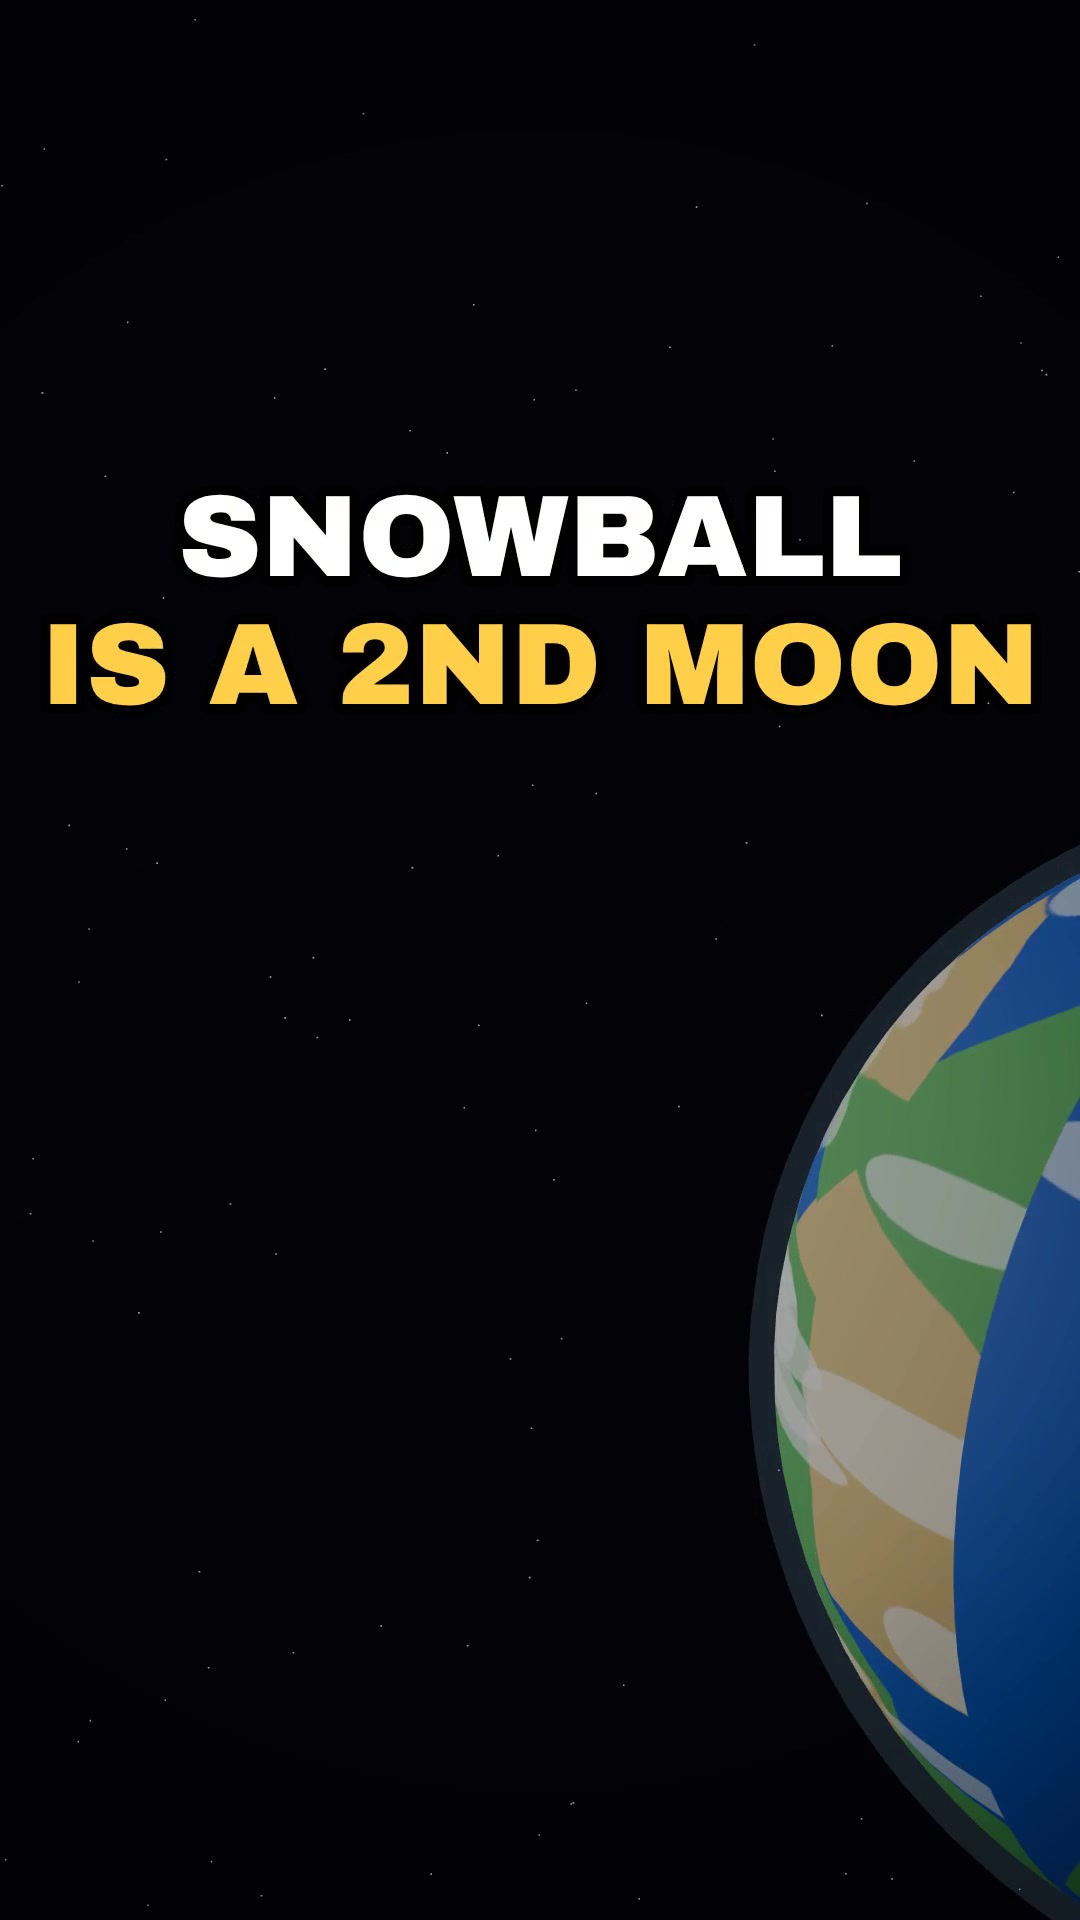
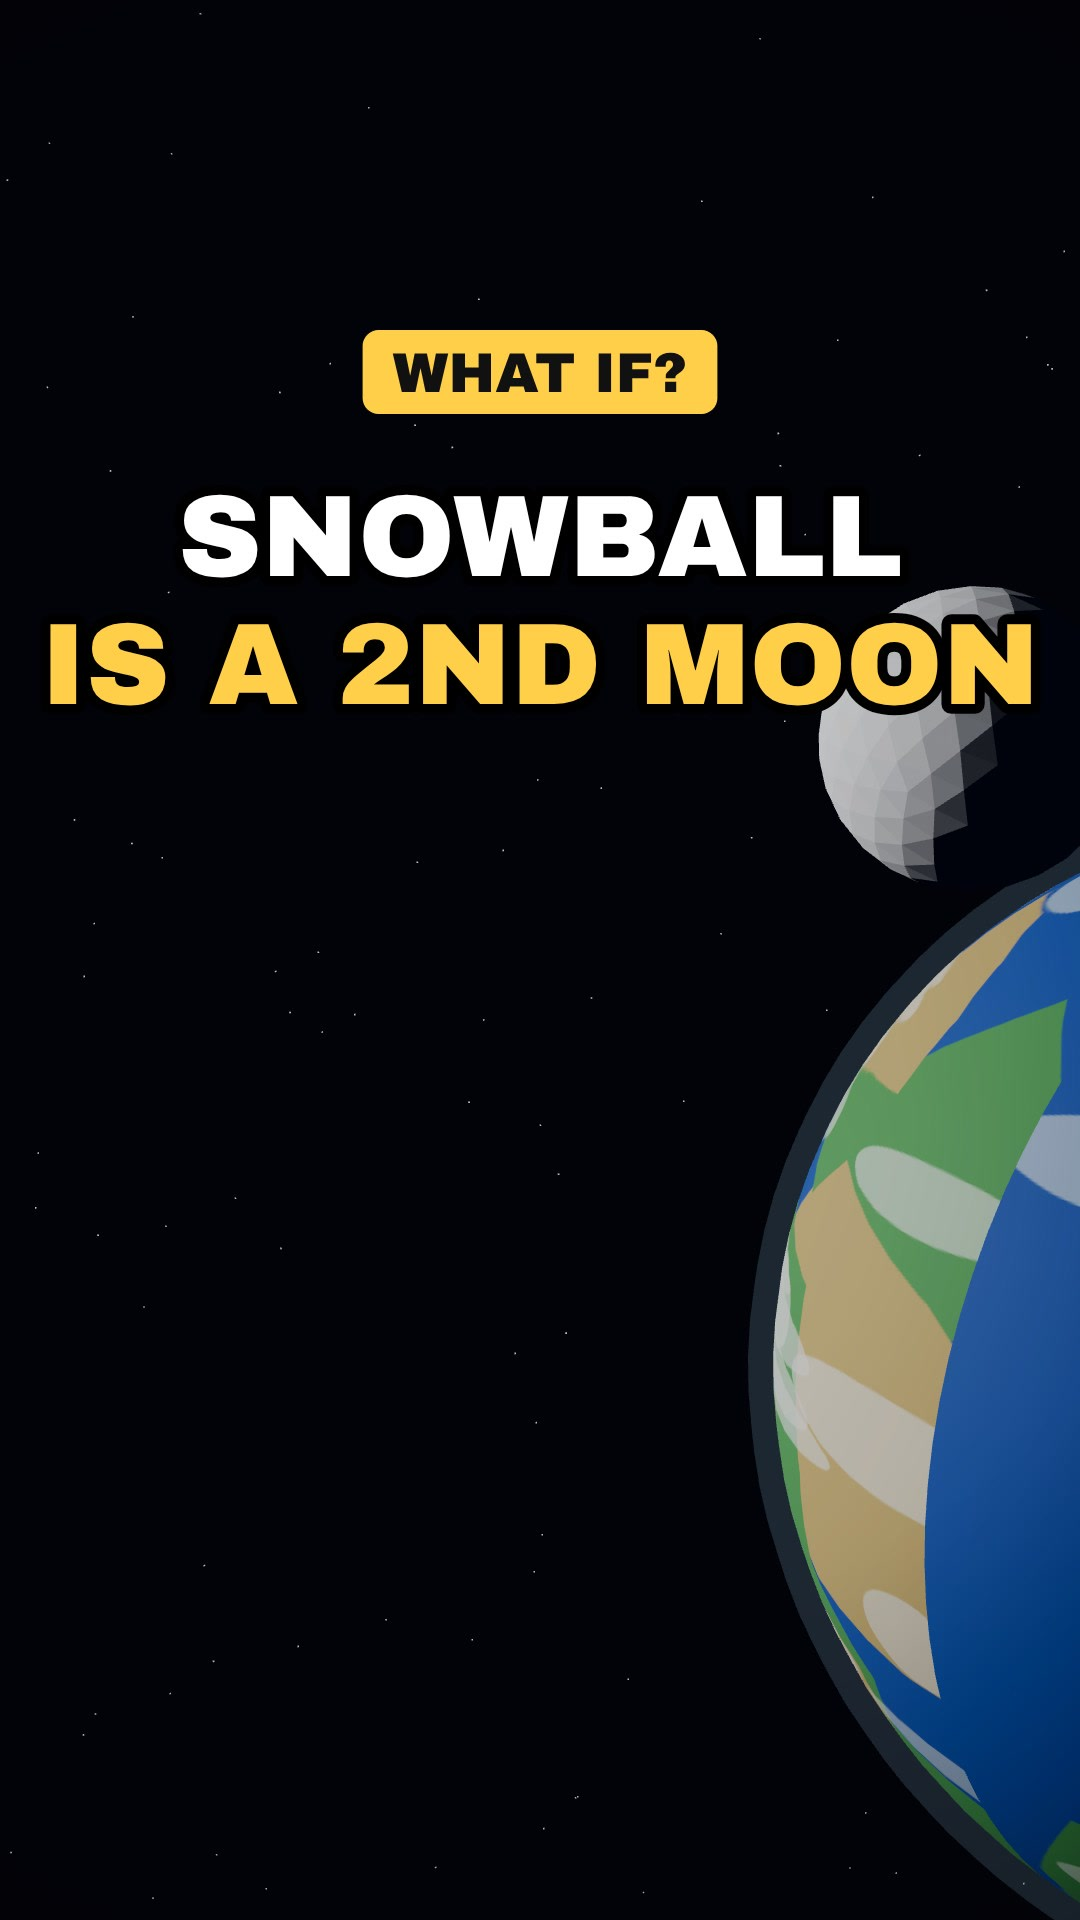
05-snowball: spoken hook + cover (v3)
Claude-Session: https://claude.ai/code/session_01GDUEGe5Cwn379iPzJxnAxt

diff --git a/engine/web/lib.js b/engine/web/lib.js
@@ -343,10 +343,10 @@ export function makeOverlay(CFG) {
   function hookText(t) {
     const Hk = TL.hook; const rows = Hk.rows; const span = Hk.end - Hk.t; ctx.fillStyle = 'rgba(0,0,0,0.15)'; ctx.fillRect(0, 0, W, H);
     const fs = fitFont(rows, W - 70, 200); ctx.lineJoin = 'round'; ctx.textAlign = 'center';
-    rows.forEach((r, i) => { const ap = i === 0 ? 0 : Hk.t + span * 0.45; const lt = t - ap; if (lt < 0) return; const pop = 1 + 0.18 * Math.max(0, 1 - lt / 0.12);
+    rows.forEach((r, i) => { const ap = window.__cover ? -9 : (i === 0 ? 0 : Hk.t + span * 0.45); const lt = t - ap; if (lt < 0) return; const pop = 1 + 0.18 * Math.max(0, 1 - lt / 0.12);
       ctx.save(); ctx.translate(W / 2, 640 - (rows.length - 1) * fs * 0.55 + i * fs * 1.1); ctx.scale(pop, pop); strokeText(r, 0, 0, `${fs}px 'Archivo Black'`, i === rows.length - 1 ? '#ffcf4a' : '#ffffff', '#000', fs * 0.17); ctx.restore(); });
   }
-  ov.cold = (t) => { if (TL.hook) { const d = t; ctx.fillStyle = `rgba(255,255,255,${0.6 * clamp(1 - d / 0.1)})`; ctx.fillRect(0, 0, W, H); hookText(t); const vg = ctx.createRadialGradient(W / 2, H / 2, H * 0.35, W / 2, H / 2, H * 0.75); vg.addColorStop(0, 'rgba(0,0,0,0)'); vg.addColorStop(1, 'rgba(0,0,0,0.35)'); ctx.fillStyle = vg; ctx.fillRect(0, 0, W, H); return; } const c0 = TL.cold; const k = t / c0; ctx.fillStyle = `rgba(255,255,255,${0.5 * clamp(1 - t / 0.12)})`; ctx.fillRect(0, 0, W, H); bigTitle(330, 1); const vg = ctx.createRadialGradient(W / 2, H / 2, H * 0.35, W / 2, H / 2, H * 0.75); vg.addColorStop(0, 'rgba(0,0,0,0)'); vg.addColorStop(1, 'rgba(0,0,0,0.35)'); ctx.fillStyle = vg; ctx.fillRect(0, 0, W, H); };
+  ov.cold = (t) => { if (TL.hook) { const d = window.__cover ? 9 : t; ctx.fillStyle = `rgba(255,255,255,${0.6 * clamp(1 - d / 0.1)})`; ctx.fillRect(0, 0, W, H); hookText(t); if (window.__cover) { ctx.font = "56px 'Archivo Black'"; const bw = ctx.measureText('WHAT IF?').width + 60; ctx.fillStyle = '#ffcf4a'; ctx.beginPath(); ctx.roundRect(W / 2 - bw / 2, 330, bw, 84, 16); ctx.fill(); ctx.fillStyle = '#111'; ctx.textAlign = 'center'; ctx.fillText('WHAT IF?', W / 2, 392); } const vg = ctx.createRadialGradient(W / 2, H / 2, H * 0.35, W / 2, H / 2, H * 0.75); vg.addColorStop(0, 'rgba(0,0,0,0)'); vg.addColorStop(1, 'rgba(0,0,0,0.35)'); ctx.fillStyle = vg; ctx.fillRect(0, 0, W, H); return; } const c0 = TL.cold; const k = t / c0; ctx.fillStyle = `rgba(255,255,255,${0.5 * clamp(1 - t / 0.12)})`; ctx.fillRect(0, 0, W, H); bigTitle(330, 1); const vg = ctx.createRadialGradient(W / 2, H / 2, H * 0.35, W / 2, H / 2, H * 0.75); vg.addColorStop(0, 'rgba(0,0,0,0)'); vg.addColorStop(1, 'rgba(0,0,0,0.35)'); ctx.fillStyle = vg; ctx.fillRect(0, 0, W, H); };
   window.__coldOv = ov.cold; return ov;
 }
 // timeline helpers
@@ -358,7 +358,7 @@ export function tlHelpers(tl) {
 export function makeFrame(shots, renderShot, overlay) {
   window.frame = (t) => {
     const sh = shots();
-    const coldFn = overlay.cold || window.__coldOv; if (window.TL && TL.cold && t < TL.cold && coldFn) { const tp = TL.coldAt + t * 0.6; const c = sh.find(s => tp >= s[1] && tp < s[2]) || sh[sh.length - 1]; const sc0 = renderShot(c[0], tp - c[1], c[2] - c[1], tp); R.render(sc0, cam); ctx.drawImage(glc, 0, 0); coldFn(t); return out.toDataURL('image/jpeg', 0.9); }
+    const coldFn = overlay.cold || window.__coldOv; if (window.TL && TL.cold && t < TL.cold && coldFn) { const tp = TL.coldAt + (window.__cover ? 0.2 : t * 0.6); const c = sh.find(s => tp >= s[1] && tp < s[2]) || sh[sh.length - 1]; const sc0 = renderShot(c[0], tp - c[1], c[2] - c[1], tp); R.render(sc0, cam); ctx.drawImage(glc, 0, 0); coldFn(t); return out.toDataURL('image/jpeg', 0.9); }
     const cur = sh.find(s => t >= s[1] && t < s[2]) || sh[sh.length - 1];
     const lt = t - cur[1], dur = cur[2] - cur[1];
     const sc = renderShot(cur[0], lt, dur, t);
